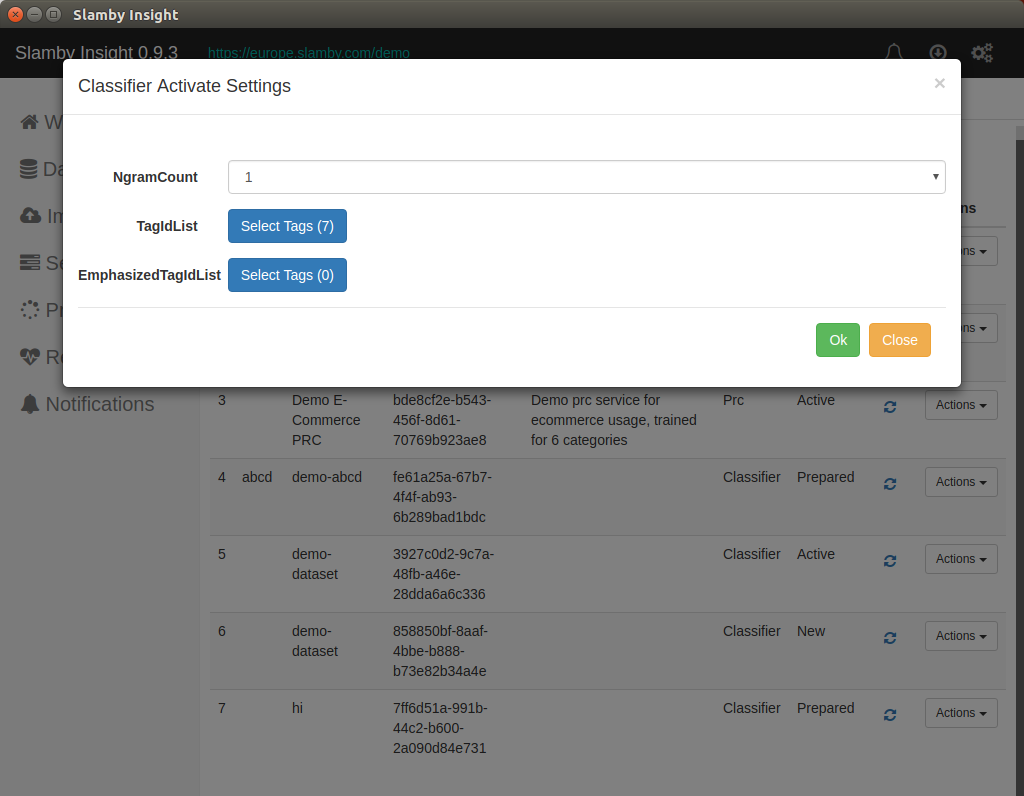
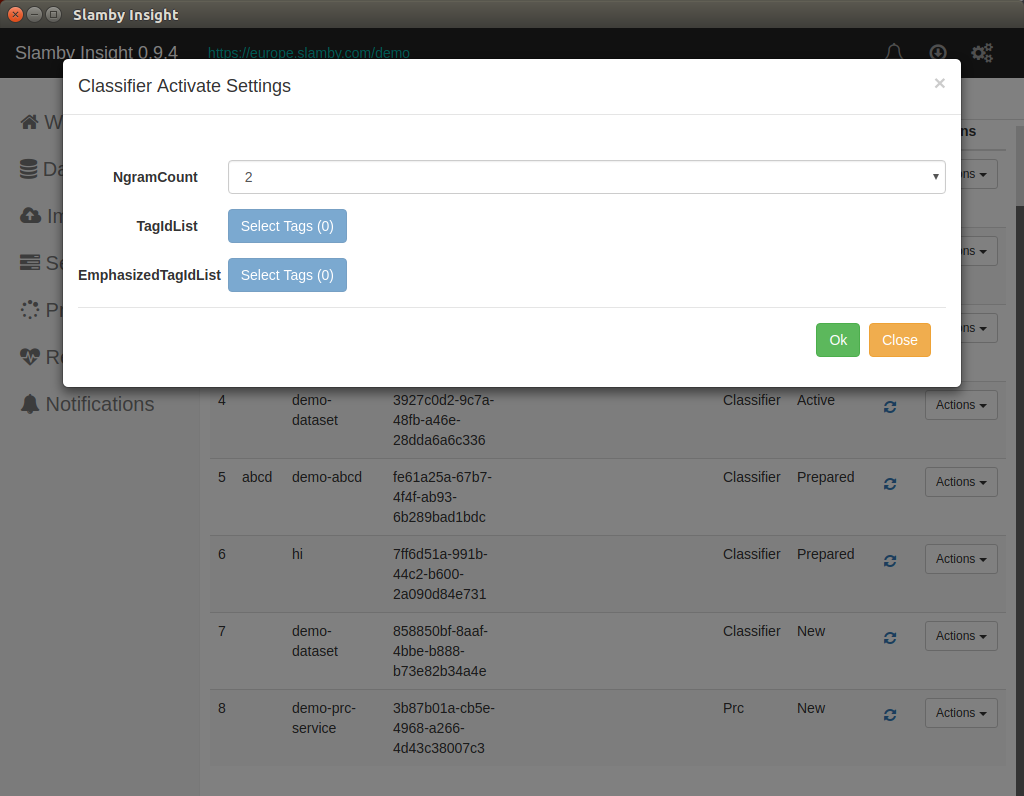
Services partly added.

diff --git a/src/DevelopersSite/wwwroot/documents/Insight/v1.0.0/readme.md b/src/DevelopersSite/wwwroot/documents/Insight/v1.0.0/readme.md
@@ -244,6 +244,133 @@ To add a new tag click the `Add new tag` button. Here provide the tag id, name a
 
 > To export all the words from your database for further analysis, click the `Export Words` button; a long-term process starts.
 
+## Services panel
+
+Main panel for service management. List, create and manage your available services. Currently, Slamby supports two type of services:
+
+- Slamby Classifier Service,
+
+- Slamby PRC Service.
+
+`Slamby Classifier Service` is a text-classification service with high accuracy level and language independence. Specialized for e-commerce text-classification and category-recommendation for thousands of categories.
+
+`Slamby PRC Service` is a text-based matchmaking service for matchmaking, keyword extraction, and duplicate finding.
+
+To create a service click the add new service button by selecting the required service type.
+
+Each service has 3 state depends on the preparation and activation status:
+
+- New,
+
+- Prepared,
+
+- Activated.
+
+`Meaning of different service status`
+
+Status | Description
+--- | ---
+New | When a service is just created it has a name, description, and an alias. The first status is `new`. This service has no settings provided, it's not prepared, you cannot activate it. To use it you need to continue with a preparation process.
+Prepared | This is a status when a service is `prepared`, all the settings and background machine-learning process done. For preparation click the prepared menu and provide the required settings for the training such as the source dataset name, and needed tags. When the status is prepared, the service is ready for use, however, you need to activate it first.
+Activated | Just the activated services are callable. When a service is prepared you can start the activation process by clicking the activate menu. During the activation process, all the required files and settings are loading into the machine memory. When a service is activated you can use it by id or by alias.
+
+![Service Panel](img/services.png)
+
+### Add Classifier Service
+
+To add a classifier service, click the `Add Classifier` button. For start provide the required name, alias, and description.
+
+`What to know about the input parameters?`
+
+Field | Description
+--- | ---
+Name | Name of the service. Human readable name for better management. You cannot modify it in the future.
+Alias | Service alias for flexible integration. You can set and modify it in the future.
+Description | Human readable description for better management.
+
+![Add Classifier Service](img/add-classifier-service.png)
+
+### Prepare Classifier Service
+
+When you need a Classifier Service, the second step is the preparation process. This is the process when based on the provided settings the machine-learning process starts.
+
+`Available settings`
+
+Field | Description
+--- | ---
+Dataset | Dataset selector. Choose the source dataset that you want to use for the training process.
+NGramCount | Default value is 3, or the maximum ngram number of the dataset.
+TagIdList | Popup tag selector window where you can pick the required tags. If you want to create a classifier service that can use just the first level categories from the tree, then select just the first level tags.
+CompressLevel | Built-in compress engine settings. Set it 1 as a default value, it will compress the results by analyzing the unnecessary words, remaining lower resource need at the same accuracy level.
+Compress Settings | Custom compress settings. For more information visit the [developers site](https://developers.slamby.com).
+
+![Prepare Classifier Service](img/prepare-classifier-service.png)
+
+### Activate Classifier Service
+
+When a Classifier Service is prepared activation available. For activation, you can use custom settings to specify you usage criteria.
+
+`Available Classifier activation service`
+
+Field | Description
+--- | ---
+NGramCount | Ngram model that you want to use for your activated service. The default value is the maximum prepared ngram value.
+TagIdList | Tag id filter from the available prepared tag list. You can filter which tags you want to use for category recommendation.
+
+![Activate Classifier Service](img/activate-classifier-service.png)
+
+### Recommend for Classifier Service
+
+To try an activated Classifier service, click the recommend menu. Here you can set the text for analysis, the required response count. When you want a detailed response click true the NeedTagsInResult.
+
+![Recommend for Classifier Service](img/recommend-classifier.png)
+
+`Classifier Recommend Response`
+
+After sending a recommend query to the selected service, the response pops up immediately. In the response the following parameters available:
+
+![Recommend for Classifier Service](img/recommend-classifier2.png)
+
+### Add PRC Service
+
+To create a PRC Service 3 parameter required: `name` as a human readable text, `alias` for flexible integration and `description` for more detailed human-readable text for better service management.
+
+![Add a PRC Service](img/add-prc-service.png)
+
+### Prepare PRC Service
+
+For preparation the required fields:
+
+Field | Description
+--- | ---
+Dataset | Select the source dataset for training.
+TagIdList | Tag selector for training. When there is no tag selected, by default all the lead tags are selected.
+CompressLevel | Built-in compress engine, recommended value is 1.
+Compress Settings | Custom compress settings, for more details visit the [developers site](https://developers.slamby.com).
+
+![Prepare PRC Service](img/prepare-prc-service.png)
+
+### Activate PRC Service
+
+For activation please check which field you want to use as a recommendation / matchmaking source. When you check a dataset field, during the text-analysis the PRC service will provide the matched items based on the selected fields.
+
+![Activate a PRC Service](img/activate-prc-service.png)
+
+### Recommend for PRC Service
+
+To try your activated PRC service, click the Recommend menu. The available options:
+
+Field | Description
+--- | ---
+Text | Text for analysis
+Count | Response item number
+Filter | PRC filter as a pre-filter before matchmaking. For more information please check the API documentation.
+NeedDocumentsInResult | When it's true response contains full document objects.
+TagId | The target tag id, in which the matchmaking will be processing. When it's empty, the API will predict a suitable one.
+Weights | Weight object to boost the results. For more information please check the API documentation.
+
+![Recommend PRC Service](img/recommend-prc-service.png)
+
 ## Processes
 
 Using Slamby API server all the long-term jobs are organized into background processes. Such as dataset copy or classifier service training are managed using background processes.
